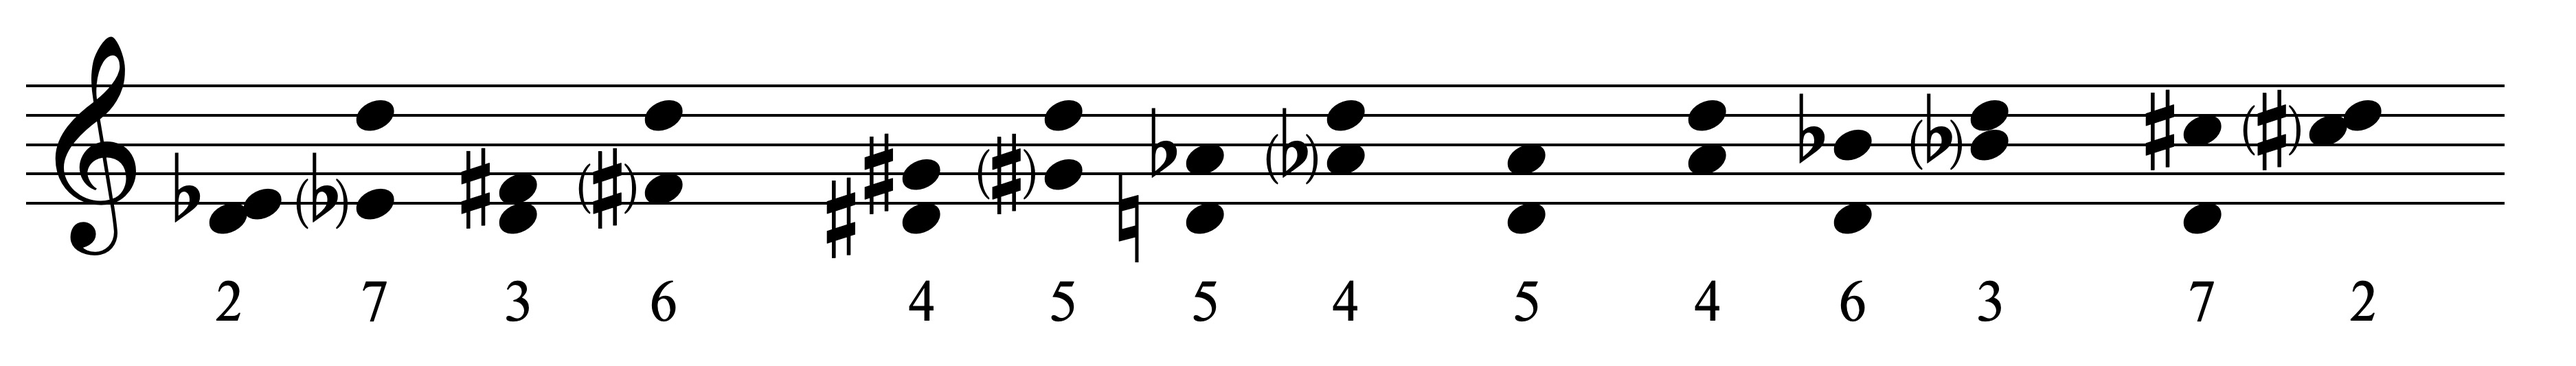
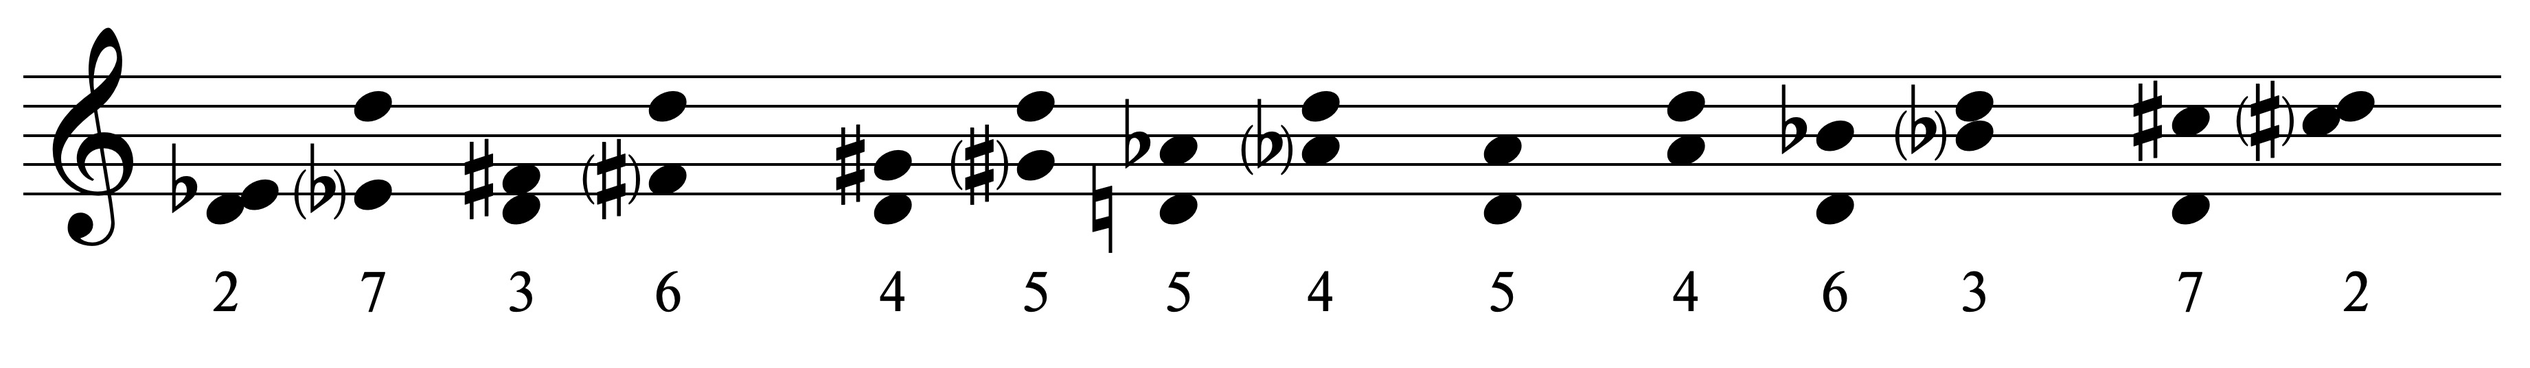
Quartz sync: Apr 10, 2025, 10:03 PM

diff --git a/content/Complementaire intervallen.md b/content/Complementaire intervallen.md
@@ -24,7 +24,7 @@ Dit kun je toepassen op alle intervallen:
 
 Of op deze manier:
 
-![[complementaire_intervallen_005.jpeg|600]]
+![[complementaire_intervallen_05.jpeg|600]]
 - kleine 2 wordt grote 7
 - grote 3 wordt kleine 6
 - overmatige 4 wordt verminderde 5
